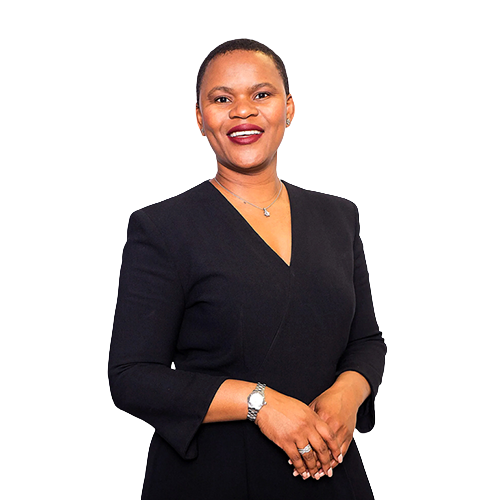
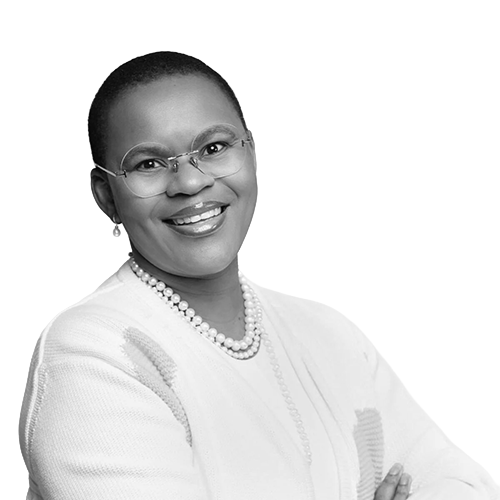
feat(speakers): add Yvonne Mothibi, Tebogo Mekgoe, Nomonde Mnukwa, Noni Khumalo and refresh cutouts

diff --git a/src/data/speakers.ts b/src/data/speakers.ts
@@ -435,4 +435,28 @@ export const additionalSpeakers: AdditionalSpeaker[] = [
     designation: "Minister of Human Settlements | Republic of South Africa",
     image: "/speakers/Hon-Mmamoko-Kubayi.png",
   },
+  {
+    id: "nomonde-mnukwa",
+    name: "Ms Nomonde Mnukwa",
+    designation: "Acting Director-General | Government Communication and Information System (GCIS)",
+    image: "/speakers/Nomonde-Mnukwa.png",
+  },
+  {
+    id: "noni-khumalo",
+    name: "Noni Khumalo",
+    designation: "Award-Winning Broadcaster, TV & Radio Producer and Master of Ceremonies",
+    image: "/speakers/Noni-Khumalo.png",
+  },
+  {
+    id: "yvonne-mothibi",
+    name: "Yvonne Mothibi",
+    designation: "CEO | Institute of Risk Management South Africa (IRMSA)",
+    image: "/speakers/Yvonne-Mothibi.png",
+  },
+  {
+    id: "tebogo-mekgoe",
+    name: "Tebogo Mekgoe",
+    designation: "Founder & Strategist | Orenda Advisory and Strategy",
+    image: "/speakers/Tebogo-Mekgoe.png",
+  },
 ];
